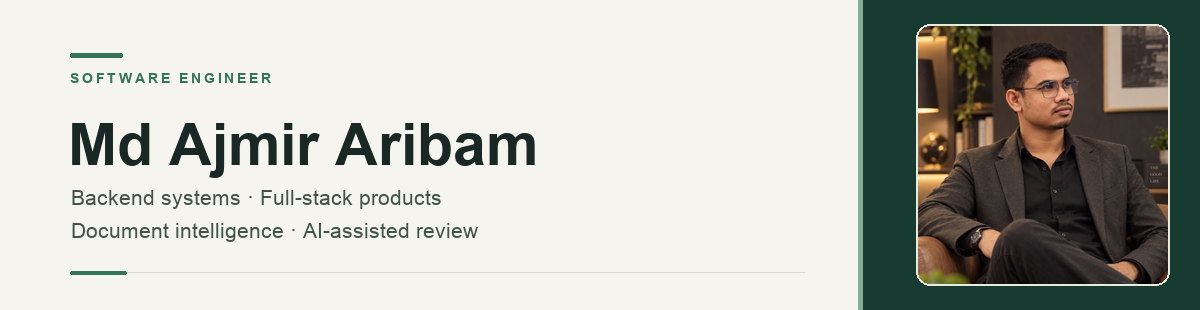
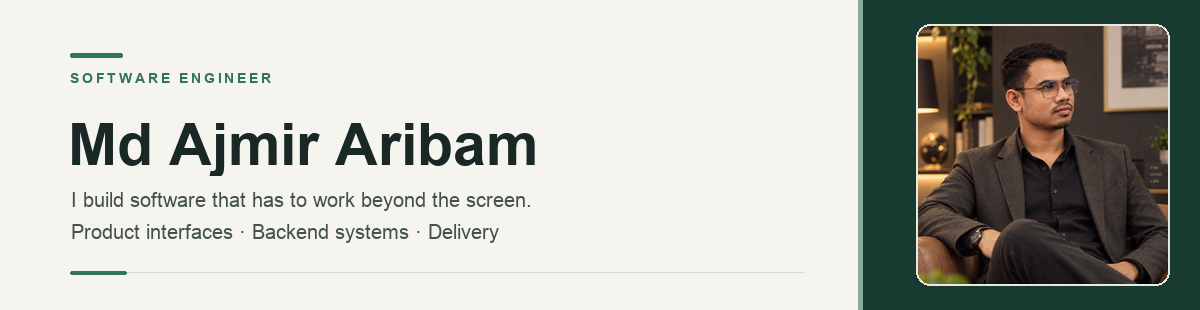
docs(profile): humanise portfolio and engineering copy

Changed region(s): [[0.0617, 0.7258, 0.4317, 0.7839], [0.0617, 0.6097, 0.4317, 0.6677]]

diff --git a/README.md b/README.md
@@ -1,10 +1,10 @@
-<img src="assets/hero.png" alt="Md Ajmir Aribam, software engineer focused on backend systems, full-stack products, and document intelligence." width="100%" />
+<img src="assets/hero.png" alt="Md Ajmir Aribam, software engineer working across product interfaces and backend systems." width="100%" />
 
 <h1 align="center">Md Ajmir Aribam</h1>
 
 <p align="center">
-  <strong>Software Engineer · Backend Systems · Full-Stack Products</strong><br />
-  Imphal, India · MCA, Sharda University (2025–2027)
+  <strong>Software Engineer · Full-Stack &amp; Backend Systems</strong><br />
+  Imphal, India · MCA student at Sharda University
 </p>
 
 <p align="center">
@@ -14,53 +14,47 @@
   <a href="mailto:arajmir7@gmail.com">Email</a>
 </p>
 
-## Profile at a glance
-
-<table>
-  <tr>
-    <td align="center"><strong>03</strong><br />Live websites</td>
-    <td align="center"><strong>01</strong><br />Hosted prototype</td>
-    <td align="center"><strong>02</strong><br />Public engineering systems</td>
-  </tr>
-</table>
-
 ## About
 
-I build dependable software across backend services, web interfaces, and data. I focus on explicit business rules, traceable records, and changes that can be verified. Earlier work in banking and digital public services shaped my attention to accurate records and accountable outcomes.
+I’m a software engineer based in Imphal and an MCA student at Sharda University. I build products from the interface through to the APIs, data, and delivery behind them. Before focusing on software, I worked with banking transactions and public digital-service workflows. That experience still shapes how I work: clear status, accurate records, and useful explanations when something goes wrong.
+
+## How I work
+
+On each project, I start with what a person needs to do. I make the rules explicit, enforce them in the API, and check both the normal path and likely failure cases. I want the next engineer to be able to see why a change was made and what it affected.
 
 ## Selected work
 
 <table>
   <tr>
     <td width="50%" valign="top">
-      <a href="https://invoice.web-com.live/"><img src="assets/projects/azaeron-public-desktop.webp" alt="Azaeron billing workspace and secure sign-in page" width="100%" /></a>
-      <h3>01 / Azaeron</h3>
-      <p><strong>Live billing product · Full-stack engineering</strong></p>
-      <p>Invoice, quotation, inventory, and customer workflows with API-enforced permissions, lifecycle rules, and audit records. Source is private; the case study describes scope and verification limits.</p>
-      <p><a href="https://invoice.web-com.live/">Visit site ↗</a> · <a href="https://ajmiraribam.me/work/azaeron">Case study</a></p>
+      <a href="https://invoice.web-com.live/"><img src="assets/projects/azaeron-public-desktop.webp" alt="Azaeron billing workspace and sign-in page" width="100%" /></a>
+      <h3>Azaeron</h3>
+      <p><strong>Live · Full-stack engineering</strong></p>
+      <p>Azaeron brings quotations, invoices, payments, inventory, and customer records into one workspace. I worked on the product and backend rules: its API checks an allowed invoice transition before saving it, then records the change. The application is live; its source is private.</p>
+      <p><a href="https://invoice.web-com.live/">Visit the site ↗</a> · <a href="https://ajmiraribam.me/work/azaeron">Read the case study</a></p>
     </td>
     <td width="50%" valign="top">
       <a href="https://shapesindia.org/"><img src="assets/projects/shapes-india-public-desktop.webp" alt="SHAPES India institutional website" width="100%" /></a>
-      <h3>02 / SHAPES India</h3>
-      <p><strong>Live institutional platform · Application and publishing engineering</strong></p>
-      <p>A public platform connecting six centres, their programmes, and shared resources.</p>
-      <p><a href="https://shapesindia.org/">Visit site ↗</a> · <a href="https://ajmiraribam.me/work/shapes-india">Case study</a></p>
+      <h3>SHAPES India</h3>
+      <p><strong>Live · Application and publishing engineering</strong></p>
+      <p>SHAPES India is a public platform for six centres, their programmes, and shared resources. I worked on the application and publishing system that brings their information together.</p>
+      <p><a href="https://shapesindia.org/">Visit the site ↗</a> · <a href="https://ajmiraribam.me/work/shapes-india">Read the case study</a></p>
     </td>
   </tr>
   <tr>
     <td width="50%" valign="top">
       <a href="https://friendsaluminiumworks.com/"><img src="assets/projects/friends-aluminium-works-public-desktop.webp" alt="Friends Aluminium Works commercial website" width="100%" /></a>
-      <h3>03 / Friends Aluminium Works</h3>
-      <p><strong>Live commercial website · Frontend delivery</strong></p>
-      <p>A product and project site for an aluminium fabrication business, designed to guide visitors from its work to an enquiry.</p>
-      <p><a href="https://friendsaluminiumworks.com/">Visit site ↗</a> · <a href="https://ajmiraribam.me/work/friends-aluminium-works">Case study</a></p>
+      <h3>Friends Aluminium Works</h3>
+      <p><strong>Live · Frontend delivery</strong></p>
+      <p>The site presents an aluminium fabrication business’s products, projects, and services, with a clear route for prospective customers to enquire. I handled the frontend delivery.</p>
+      <p><a href="https://friendsaluminiumworks.com/">Visit the site ↗</a> · <a href="https://ajmiraribam.me/work/friends-aluminium-works">Read the case study</a></p>
     </td>
     <td width="50%" valign="top">
       <a href="https://storied-bombolone-5d4a8f.netlify.app/"><img src="assets/projects/zam-zam-academy-public-desktop.webp" alt="Zam Zam Academy hosted website prototype" width="100%" /></a>
-      <h3>04 / Zam Zam Academy</h3>
+      <h3>Zam Zam Academy</h3>
       <p><strong>Hosted prototype · Web delivery</strong></p>
-      <p>A multi-page education website study covering academics, admissions, faculty, student life, notices, and contact journeys.</p>
-      <p><a href="https://storied-bombolone-5d4a8f.netlify.app/">Open preview ↗</a> · <a href="https://ajmiraribam.me/work/zam-zam-academy">Case study</a></p>
+      <p>I built a multi-page website prototype for Zam Zam Academy, with sections for academics, admissions, faculty, student life, notices, and contact.</p>
+      <p><a href="https://storied-bombolone-5d4a8f.netlify.app/">Open the prototype ↗</a> · <a href="https://ajmiraribam.me/work/zam-zam-academy">Read the case study</a></p>
     </td>
   </tr>
 </table>
@@ -71,22 +65,22 @@ I build dependable software across backend services, web interfaces, and data. I
   <tr>
     <td width="50%" valign="top">
       <h3>Azaeron Verity</h3>
-      <p><strong>Document intelligence · In development · Not production ready</strong></p>
-      <p>A review workspace that keeps document findings attached to their source and version. It combines tenant-scoped retrieval, asynchronous analysis, and human review. Production model approval and detector calibration remain open.</p>
-      <p><a href="https://github.com/arajmir7/Azaeron-Verity">Repository</a> · <a href="https://github.com/arajmir7/Azaeron-Verity/blob/main/ARCHITECTURE.md">Architecture</a> · <a href="https://ajmiraribam.me/work/azaeron-verity">Case study</a></p>
+      <p><strong>Document review · In development · Not production-ready</strong></p>
+      <p>Findings stay tied to the document version and recorded sources behind them. Reviewers decide whether to accept proposed edits; similarity and authorship signals are shown with their limits. The project is still in development.</p>
+      <p><a href="https://github.com/arajmir7/Azaeron-Verity">Repository</a> · <a href="https://github.com/arajmir7/Azaeron-Verity/blob/main/ARCHITECTURE.md">Architecture</a> · <a href="https://ajmiraribam.me/work/azaeron-verity">Read the case study</a></p>
     </td>
     <td width="50%" valign="top">
       <h3>SCMIRN</h3>
-      <p><strong>Civic-service routing · Prototype · Not production ready</strong></p>
-      <p>A prototype for finding relevant civic-service routes, with consent checks, versioned rules, and source-verified handoffs. It does not file requests with government agencies.</p>
+      <p><strong>Civic-service routing · Prototype · Not production-ready</strong></p>
+      <p>SCMIRN is a prototype for helping people find relevant public services and reach source-checked official information. It does not submit requests to agencies or act as a government service.</p>
       <p><a href="https://github.com/arajmir7/SCMIRN">Repository</a> · <a href="https://github.com/arajmir7/SCMIRN/tree/main/src/backend/app/source_routing">Routing implementation</a></p>
     </td>
   </tr>
 </table>
 
-## Engineering toolset
+## Technologies
 
-### Languages
+### Languages and web foundations
 
 <p>
   <img src="assets/tech/python.svg" alt="Python" width="42" height="42" />&nbsp;
@@ -114,7 +108,7 @@ I build dependable software across backend services, web interfaces, and data. I
 
 **React · Next.js · FastAPI · Flask · Node.js · Express · Vite**
 
-### Data and jobs
+### Data and background jobs
 
 <p>
   <img src="assets/tech/postgresql.svg" alt="PostgreSQL" width="42" height="42" />&nbsp;
@@ -136,15 +130,15 @@ I build dependable software across backend services, web interfaces, and data. I
 
 **pytest · Playwright · Vitest · Ruff · axe-core · Git · GitHub Actions · Docker · Vercel**
 
-## Current technical focus
+## What I’m exploring
 
-I’m exploring document retrieval, model evaluation, and uncertainty in AI-assisted review. In Verity, these ideas are visible in the [retrieval pipeline](https://github.com/arajmir7/Azaeron-Verity/blob/main/backend/app/modules/similarity/service.py) and [calibration layer](https://github.com/arajmir7/Azaeron-Verity/blob/main/backend/app/modules/detection/intelligence/calibration.py). These remain experiments separate from the production runtime.
+I’m exploring how document review can show the evidence behind a finding without presenting an AI-generated signal as a verdict. In Azaeron Verity, that means keeping each result connected to its source and version, making uncertainty visible, and leaving the decision with the reviewer. This work remains experimental; see the [retrieval pipeline](https://github.com/arajmir7/Azaeron-Verity/blob/main/backend/app/modules/similarity/service.py) and [calibration layer](https://github.com/arajmir7/Azaeron-Verity/blob/main/backend/app/modules/detection/intelligence/calibration.py).
 
 ---
 
 <p align="center">
-  <a href="https://ajmiraribam.me/work">More work</a> ·
-  <a href="https://ajmiraribam.me/engineering">Engineering approach</a> ·
+  <a href="https://ajmiraribam.me/work">More of my work</a> ·
+  <a href="https://ajmiraribam.me/engineering">How I approach engineering</a> ·
   <a href="https://github.com/arajmir7/ajmir-aribam-portfolio">Portfolio source</a> ·
   <a href="mailto:arajmir7@gmail.com">Get in touch</a>
 </p>
